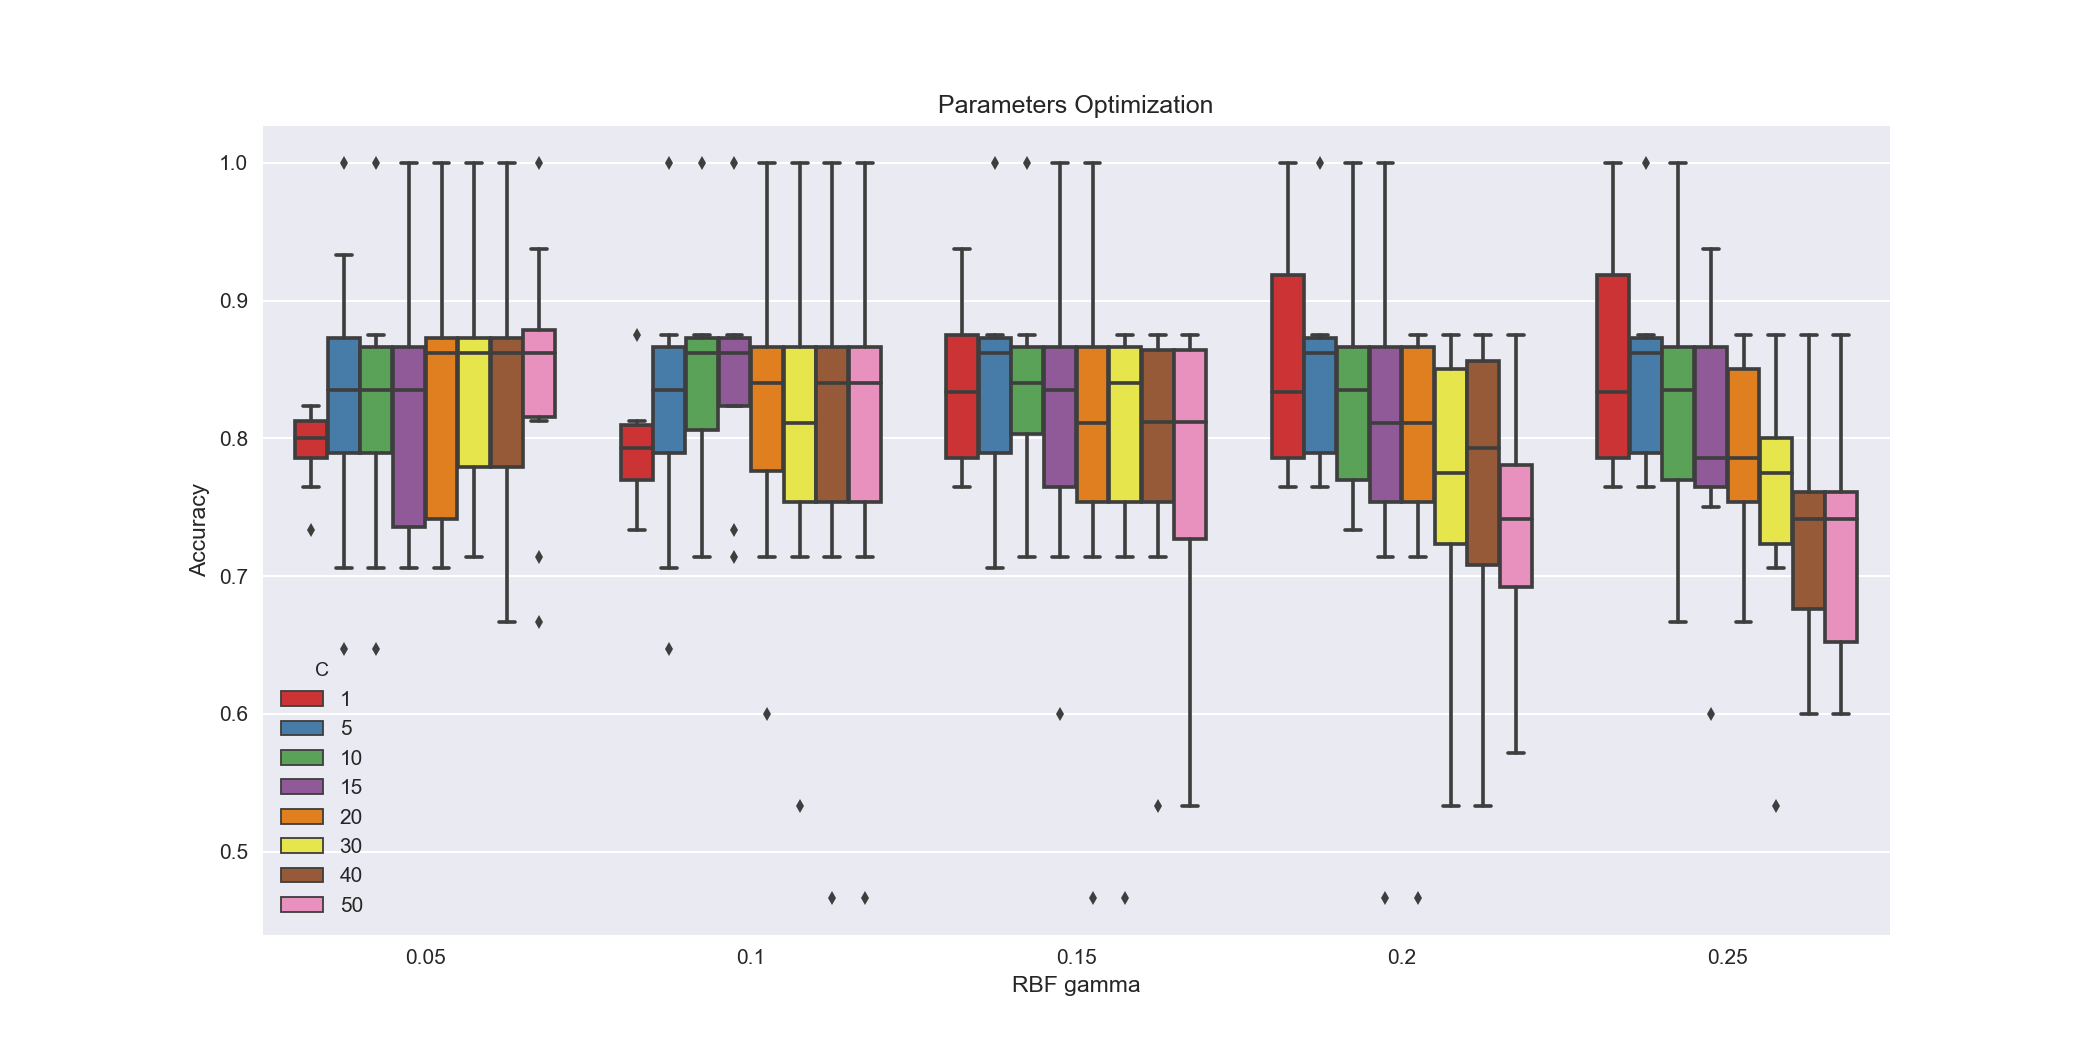
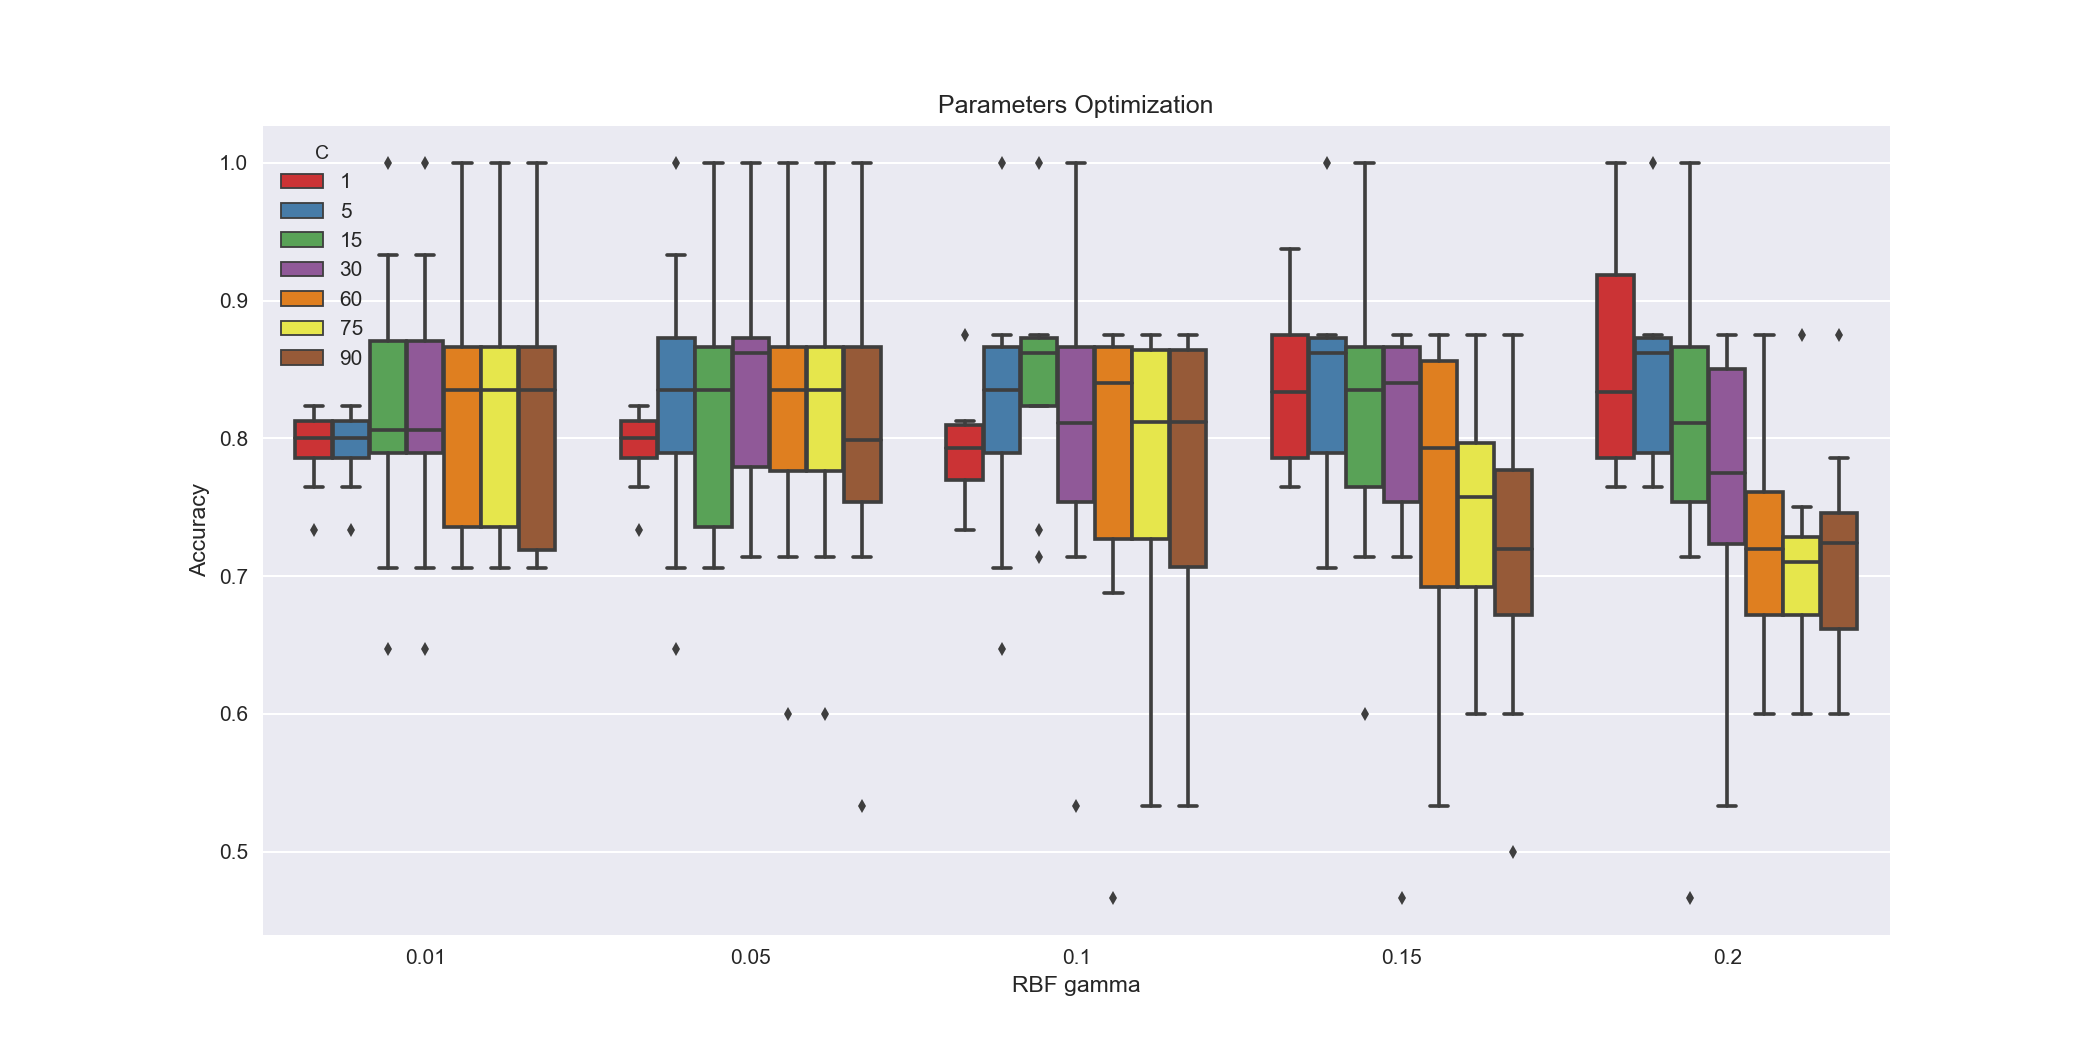
Output updated after changing Hepa part II parameters

diff --git a/ex4-SVM/main.py b/ex4-SVM/main.py
@@ -85,8 +85,9 @@ hepa_data_set = [{'name': "hepatitis", 'dummy_value': "?", 'class_field': "Class
 if hep_res_part2 is None:
     hep_res_part2 = main_run(hepa_data_set,
                              kernel=['rbf'],
-                             C=[1, 5, 10, 15, 20, 30, 40, 50],
-                             gammas=np.linspace(0.05, 0.25, 5),
+                             C=[1, 5, 15, 30, 60, 75, 90],
+                             #gammas=np.linspace(0.01, 0.25, 5),
+                             gammas=[0.01, 0.05, 0.1, 0.15, 0.2],
                              plot_fig=False)
 if SAVE_PICKLE:
     hep_res_part2.to_pickle("hep_res_part2.df")
